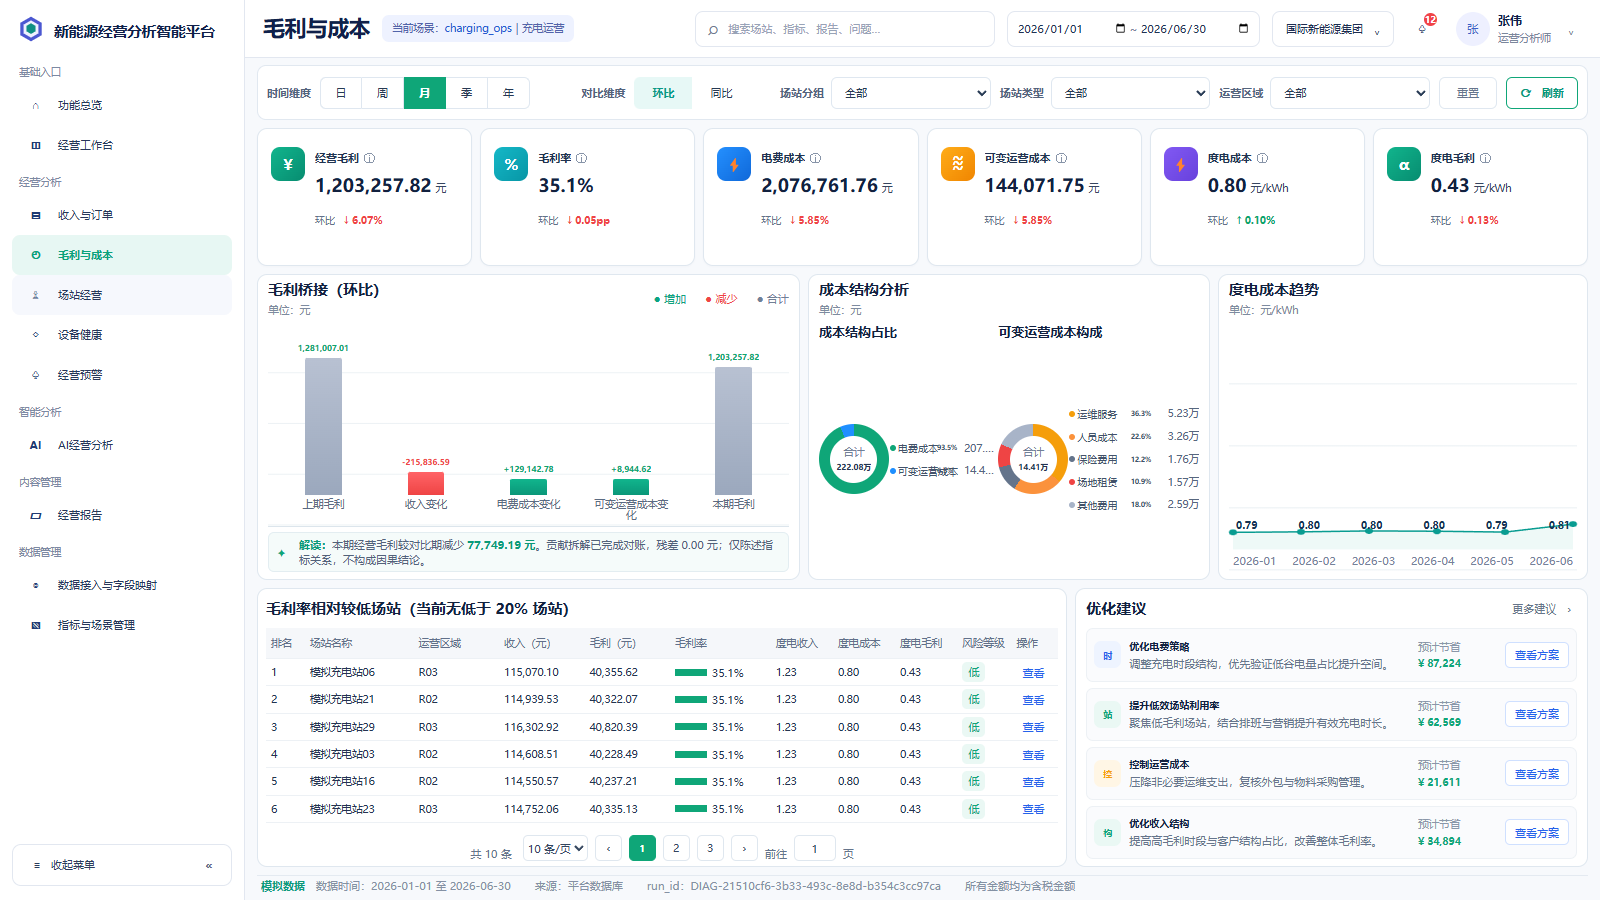
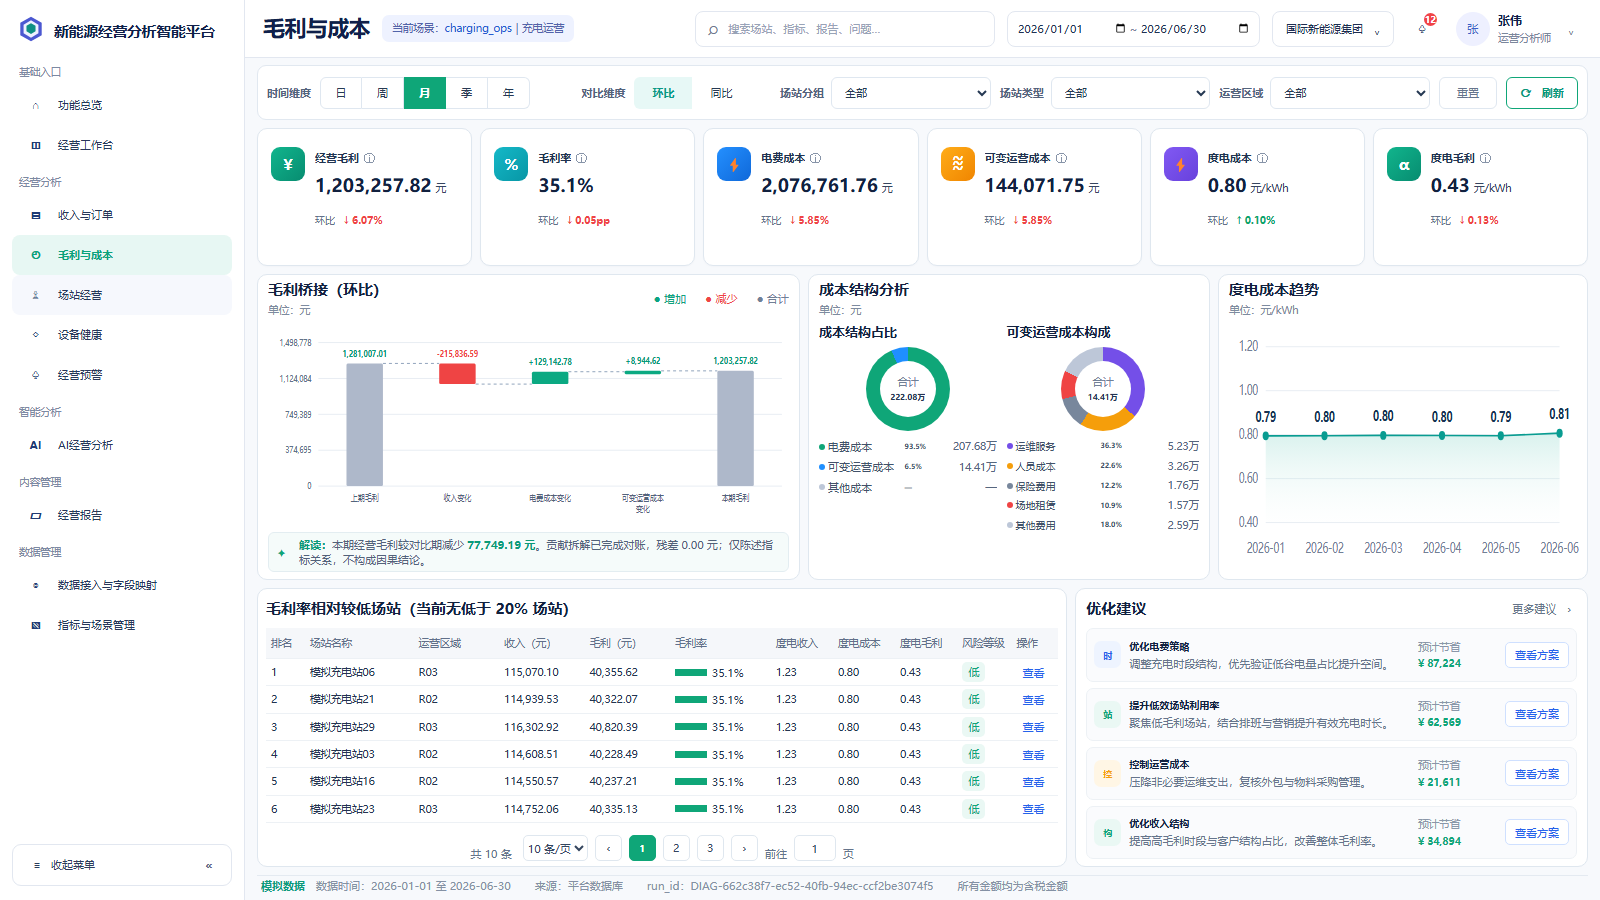
style(ui): align gross profit charts with Figma

diff --git a/frontend/src/overview.css b/frontend/src/overview.css
@@ -86,10 +86,10 @@
 .margin-middle-grid,.margin-bottom-grid{min-width:0;min-height:0;display:grid;gap:8px}.margin-middle-grid{grid-template-columns:minmax(0,1.35fr) minmax(330px,1fr) minmax(300px,.92fr)}.margin-bottom-grid{grid-template-columns:minmax(0,1.58fr) minmax(410px,1fr)}
 .margin-panel{min-width:0;min-height:0;overflow:hidden;border:1px solid #dfe7ef;border-radius:10px;background:#fff}.margin-panel>header{min-width:0;display:flex;align-items:center;justify-content:space-between}.margin-panel h2{margin:0;color:#12213f;font-size:14px}.margin-panel header small{display:block;margin-top:4px;color:#7d8ba0;font-size:9px;font-weight:500}
 .margin-bridge-panel{padding:0 10px 7px;display:grid;grid-template-rows:48px minmax(0,1fr) 45px}.margin-bridge-panel>header nav{display:flex;gap:19px;color:#718096;font-size:9px}.margin-bridge-panel nav .increase{color:#0ba480}.margin-bridge-panel nav .decrease{color:#ef4444}
-.margin-waterfall{min-height:0;padding:2px 4px 0;display:flex;align-items:flex-end;justify-content:space-around;border-bottom:1px solid #dce5ec;background:repeating-linear-gradient(to bottom,#fff 0,#fff 24%,#edf2f5 24.5%,#fff 25%);overflow:hidden}.margin-waterfall>div{width:16.2%;height:100%;display:flex;flex-direction:column;align-items:center;justify-content:flex-end}.margin-waterfall b{max-width:100%;margin-bottom:4px;overflow:hidden;font-size:8px;white-space:nowrap;text-overflow:ellipsis}.margin-waterfall>div>span{width:44%;min-height:8px;max-height:72%;border-radius:2px 2px 0 0}.margin-waterfall .positive{background:linear-gradient(#11b58d,#0a9779)}.margin-waterfall .negative{background:linear-gradient(#ff6467,#ef4444)}.margin-waterfall .total{background:linear-gradient(#b8c1d2,#9ba8bd)}.margin-waterfall small{height:31px;padding-top:4px;color:#5b6b82;font-size:8px;line-height:11px;text-align:center}.margin-bridge-panel>footer{margin-top:5px;padding:5px 8px;display:grid;grid-template-columns:22px 1fr;align-items:center;border:1px solid #e3edf1;border-radius:6px;background:#f5fbfa}.margin-bridge-panel>footer i{color:#0fa678;font-style:normal}.margin-bridge-panel>footer p{margin:0;overflow:hidden;color:#52627a;font-size:9px;line-height:15px}.margin-bridge-panel>footer b,.margin-bridge-panel>footer strong{color:#0b9a78}
+.margin-waterfall{min-height:0;overflow:hidden}.margin-waterfall svg{width:100%;height:100%;overflow:visible}.waterfall-grid{stroke:#e8edf3;stroke-width:1;vector-effect:non-scaling-stroke}.waterfall-axis-label{fill:#61718a;font-size:8px;text-anchor:end}.waterfall-connector{stroke:#91a4bc;stroke-width:1;stroke-dasharray:3 3;vector-effect:non-scaling-stroke}.waterfall-total{fill:#aeb8ca}.waterfall-positive{fill:#0ba982}.waterfall-negative{fill:#ef4444}.waterfall-value{font-size:8px;font-weight:700;text-anchor:middle}.waterfall-value.up{fill:#079a77}.waterfall-value.down{fill:#ef4444}.waterfall-category{fill:#53637b;font-size:8px;text-anchor:middle}.margin-bridge-panel>footer{margin-top:5px;padding:5px 8px;display:grid;grid-template-columns:22px 1fr;align-items:center;border:1px solid #e3edf1;border-radius:6px;background:#f5fbfa}.margin-bridge-panel>footer i{color:#0fa678;font-style:normal}.margin-bridge-panel>footer p{margin:0;overflow:hidden;color:#52627a;font-size:9px;line-height:15px}.margin-bridge-panel>footer b,.margin-bridge-panel>footer strong{color:#0b9a78}
 .margin-chart-loading{height:100%;display:grid;place-items:center;color:#75849a;font-size:10px}
-.margin-cost-panel{padding:0 10px 8px;display:grid;grid-template-rows:48px minmax(0,1fr)}.cost-structure{min-height:0;display:grid;grid-template-columns:.93fr 1.07fr;gap:5px}.cost-structure>section{min-width:0;display:grid;grid-template-rows:24px minmax(0,1fr)}.cost-structure h3{margin:0;font-size:10px}.cost-structure section>div{min-width:0;min-height:0;display:grid;grid-template-columns:70px minmax(0,1fr);align-items:center;gap:1px}.margin-donut{width:70px;height:70px;margin:auto;display:grid;place-items:center;border-radius:50%}.margin-donut>span{width:47px;height:47px;display:grid;place-content:center;border-radius:50%;background:#fff;text-align:center}.margin-donut small{color:#718096;font-size:7px}.margin-donut b{max-width:43px;margin-top:2px;overflow:hidden;color:#233451;font-size:8px;white-space:nowrap;text-overflow:ellipsis}.cost-structure ul{min-width:0;margin:0;padding:0;display:grid;gap:8px;list-style:none}.cost-structure li{min-width:0;display:grid;grid-template-columns:6px minmax(37px,1fr) 25px minmax(34px,.8fr);align-items:center;gap:2px;color:#42526a;font-size:6.5px;white-space:nowrap}.cost-structure li i{width:6px;height:6px;border-radius:50%}.cost-structure li b{font-size:6.5px}.cost-structure li em{overflow:hidden;color:#56677f;font-size:6.5px;font-style:normal;text-align:right;text-overflow:ellipsis}
-.margin-trend-panel{padding:0 10px 8px;display:grid;grid-template-rows:48px minmax(0,1fr)}.margin-trend{position:relative;min-height:0;padding:7px 4px 0;background:repeating-linear-gradient(to bottom,#fff 0,#fff 24%,#edf2f5 24.5%,#fff 25%)}.margin-trend svg{width:100%;height:calc(100% - 22px);overflow:visible}.margin-trend polygon{fill:#dff4f0;opacity:.55}.margin-trend polyline{fill:none;stroke:#099c91;stroke-width:1.5;vector-effect:non-scaling-stroke}.margin-trend circle{fill:#099c91;vector-effect:non-scaling-stroke}.margin-trend-labels{position:absolute;right:7px;bottom:39px;left:7px;display:flex;justify-content:space-between;color:#183454;font-size:9px}.margin-trend-axis{height:19px;display:flex;align-items:end;justify-content:space-between;color:#74829a;font-size:7px}
+.margin-cost-panel{padding:0 10px 8px;display:grid;grid-template-rows:48px minmax(0,1fr)}.cost-structure{min-height:0;display:grid;grid-template-columns:.96fr 1.04fr;gap:10px}.cost-structure>section{min-width:0;display:grid;grid-template-rows:24px minmax(0,1fr)}.cost-structure h3{margin:0;font-size:10px}.cost-structure section>div{min-width:0;min-height:0;display:grid;grid-template-rows:92px minmax(0,1fr);align-items:start}.margin-donut{width:84px;height:84px;margin:0 auto;display:grid;place-items:center;border-radius:50%}.margin-donut>span{width:56px;height:56px;display:grid;place-content:center;border-radius:50%;background:#fff;text-align:center}.margin-donut small{color:#718096;font-size:7px}.margin-donut b{max-width:52px;margin-top:2px;overflow:hidden;color:#233451;font-size:8px;white-space:nowrap;text-overflow:ellipsis}.cost-structure ul{min-width:0;margin:0;padding:0;display:grid;gap:5px;list-style:none}.cost-structure li{min-width:0;display:grid;grid-template-columns:6px minmax(45px,1fr) 30px minmax(39px,.8fr);align-items:center;gap:3px;color:#42526a;font-size:7px;white-space:nowrap}.cost-structure li i{width:6px;height:6px;border-radius:50%}.cost-structure li span{overflow:hidden;text-overflow:ellipsis}.cost-structure li b{font-size:7px}.cost-structure li em{overflow:hidden;color:#56677f;font-size:7px;font-style:normal;text-align:right;text-overflow:ellipsis}
+.margin-trend-panel{padding:0 10px 8px;display:grid;grid-template-rows:48px minmax(0,1fr)}.margin-trend{position:relative;min-height:0}.margin-trend svg{width:100%;height:100%;overflow:visible}.margin-trend polygon{fill:url(#marginTrendArea)}.margin-trend polyline{fill:none;stroke:#099c91;stroke-width:1.6;vector-effect:non-scaling-stroke}.margin-trend circle{fill:#099c91;vector-effect:non-scaling-stroke}.trend-grid{stroke:#e8edf3;stroke-width:1;vector-effect:non-scaling-stroke}.trend-axis-label{fill:#718096;font-size:8px;text-anchor:end}.trend-value{fill:#183454;font-size:9px;font-weight:700;text-anchor:middle}.trend-period{fill:#718096;font-size:7px;text-anchor:middle}
 .margin-station-panel{padding:0 8px 5px;display:grid;grid-template-rows:39px minmax(0,1fr) 38px}.margin-station-panel>div{min-height:0;overflow:hidden}.margin-station-panel table{width:100%;height:100%;margin:0;border-collapse:collapse;table-layout:fixed}.margin-station-panel th,.margin-station-panel td{height:auto;padding:4px 5px;overflow:hidden;border-bottom:1px solid #edf1f5;color:#233451;font-size:8px;text-align:left;white-space:nowrap;text-overflow:ellipsis}.margin-station-panel th{height:30px;background:#f5f7fa;color:#61708a;font-weight:500}.margin-station-panel th:nth-child(1){width:5%}.margin-station-panel th:nth-child(2){width:14%}.margin-station-panel th:nth-child(3){width:11%}.margin-station-panel th:nth-child(4),.margin-station-panel th:nth-child(5){width:11%}.margin-station-panel th:nth-child(6){width:13%}.margin-station-panel th:nth-child(7),.margin-station-panel th:nth-child(8),.margin-station-panel th:nth-child(9){width:8%}.margin-station-panel th:nth-child(10){width:7%}.margin-station-panel th:nth-child(11){width:6%}.margin-rate{display:flex;align-items:center;gap:5px}.margin-rate>i{width:30px;height:7px;flex:0 0 auto}.margin-station-panel td>em{padding:3px 6px;border-radius:5px;font-size:8px;font-style:normal}.margin-station-panel td>.risk-high{background:#fff0f1;color:#ef4444!important}.margin-station-panel td>.risk-medium{background:#fff6e5;color:#f59e0b}.margin-station-panel td>.risk-low{background:#eaf8f4;color:#0fa678!important}.margin-station-panel td>button{border:0;background:transparent;color:#2563eb;font-size:8px}.margin-station-panel>footer{display:flex;align-items:end;justify-content:center;gap:7px;color:#65748b;font-size:9px}.margin-station-panel>footer select{height:26px;margin-left:4px;border:1px solid #dfe7ef;border-radius:5px;background:#fff;color:#34455e;font-size:9px}.margin-station-panel>footer button,.margin-station-panel>footer b,.margin-station-panel>footer input{width:27px;height:26px;padding:0;display:grid;place-items:center;border:1px solid #dfe7ef;border-radius:5px;background:#fff;color:#34455e;font-size:9px;text-align:center}.margin-station-panel>footer b{border-color:#0fa678;background:#0fa678;color:#fff}.margin-station-panel>footer input{width:42px}
 .margin-suggestion-panel{padding:0 10px 7px;display:grid;grid-template-rows:39px minmax(0,1fr)}.margin-suggestion-panel>header>button{border:0;background:transparent;color:#66758a;font-size:9px}.margin-suggestion-panel>div{min-height:0;display:grid;grid-template-rows:repeat(4,minmax(0,1fr));gap:6px}.margin-suggestion-panel section{min-height:0;padding:5px 7px;display:grid;grid-template-columns:28px minmax(0,1fr) 80px 64px;align-items:center;gap:7px;border:1px solid #edf1f5;border-radius:7px;background:#fafbfd}.margin-suggestion-panel section>i{width:27px;height:27px;display:grid;place-items:center;border-radius:7px;font-size:9px;font-style:normal;font-weight:700}.margin-suggestion-panel i.blue{background:#eef4ff!important;color:#2563eb!important}.margin-suggestion-panel i.green{background:#eaf8f4!important;color:#0fa678!important}.margin-suggestion-panel i.orange{background:#fff6e5!important;color:#f59e0b!important}.margin-suggestion-panel section>div{min-width:0}.margin-suggestion-panel section>div>b{display:block;font-size:10px}.margin-suggestion-panel p{margin:3px 0 0;overflow:hidden;color:#66758c;font-size:8px;white-space:nowrap;text-overflow:ellipsis}.margin-suggestion-panel section>span{display:grid;gap:2px}.margin-suggestion-panel section>span small{color:#8a97a9;font-size:7px}.margin-suggestion-panel section>span strong{color:#0fa678;font-size:10px}.margin-suggestion-panel section>button{height:26px;border:1px solid #cfe0ff;border-radius:5px;background:#fff;color:#2563eb;font-size:8px}
 .margin-truth{padding:0 4px;display:flex;align-items:center;gap:24px;overflow:hidden;border-top:1px solid #e4eaf1;color:#8491a4;font-size:8px;white-space:nowrap}.margin-truth b{color:#0b9b7c}.margin-error{position:absolute;right:8px;bottom:23px;padding:5px 10px;border-radius:5px;background:#fff0f0;color:#a52a2a;font-size:9px}

diff --git a/frontend/src/overview.tsx b/frontend/src/overview.tsx
@@ -361,36 +361,79 @@ function MarginWaterfall({ diagnostic }: { diagnostic: ProfitDiagnostic | null }
   if (!diagnostic) return <div className="margin-chart-loading">正在计算毛利变化贡献…</div>
   const startValue = diagnostic.previous.gross_profit ?? 0
   const endValue = diagnostic.current.gross_profit ?? 0
+  let cumulative = startValue
   const values = [
-    { label: '上期毛利', value: startValue, total: true },
-    ...diagnostic.bridge.map(item => ({ label: marginDriverNames[item.driver] || item.driver, value: item.contribution, total: false })),
-    { label: '本期毛利', value: endValue, total: true },
+    { label: '上期毛利', value: startValue, start: 0, end: startValue, total: true },
+    ...diagnostic.bridge.map(item => {
+      const start = cumulative
+      cumulative += item.contribution
+      return { label: marginDriverNames[item.driver] || item.driver, value: item.contribution, start, end: cumulative, total: false }
+    }),
+    { label: '本期毛利', value: endValue, start: 0, end: endValue, total: true },
   ]
-  const max = Math.max(...values.map(item => Math.abs(item.value)), 1)
+  const allLevels = values.flatMap(item => [item.start, item.end, 0])
+  const rawMin = Math.min(...allLevels)
+  const rawMax = Math.max(...allLevels)
+  const spread = Math.max(rawMax - rawMin, 1)
+  const axisMin = rawMin < 0 ? rawMin - spread * .08 : 0
+  const axisMax = rawMax + spread * .17
+  const plot = { left: 58, right: 592, top: 18, bottom: 150 }
+  const plotHeight = plot.bottom - plot.top
+  const step = (plot.right - plot.left) / values.length
+  const barWidth = Math.min(42, step * .43)
+  const y = (value: number) => plot.top + (axisMax - value) / (axisMax - axisMin) * plotHeight
+  const ticks = Array.from({ length: 5 }, (_, index) => axisMin + (axisMax - axisMin) * index / 4)
+  const shortAxis = (value: number) => Math.abs(value) >= 10000 ? Math.round(value).toLocaleString('zh-CN') : value.toFixed(0)
+  const labelParts = (label: string) => label.length > 7 ? [label.slice(0, 6), label.slice(6)] : [label]
   return <div className="margin-waterfall" role="img" aria-label="毛利桥接环比图">
-    {values.map((item, index) => {
-      const height = Math.max(Math.abs(item.value) / max * 68, 8)
-      const positive = item.total || item.value >= 0
-      return <div key={`${item.label}-${index}`}><b className={positive ? 'up' : 'down'}>{item.value >= 0 && !item.total ? '+' : ''}{money(item.value)}</b><span className={`${item.total ? 'total ' : ''}${positive ? 'positive' : 'negative'}`} style={{ height: `${height}%` }} /><small>{item.label}</small></div>
-    })}
+    <svg viewBox="0 0 600 188" preserveAspectRatio="none">
+      {ticks.map((tick, index) => {
+        const tickY = y(tick)
+        return <g key={`tick-${index}`}><line className="waterfall-grid" x1={plot.left} x2={plot.right} y1={tickY} y2={tickY} /><text className="waterfall-axis-label" x={plot.left - 8} y={tickY + 3}>{shortAxis(tick)}</text></g>
+      })}
+      {values.map((item, index) => {
+        const x = plot.left + step * index + (step - barWidth) / 2
+        const rectTop = Math.min(y(item.start), y(item.end))
+        const rectBottom = Math.max(y(item.start), y(item.end))
+        const rectHeight = Math.max(rectBottom - rectTop, 3)
+        const positive = item.value >= 0
+        const connectorLevel = item.total && index === 0 ? item.end : item.end
+        const connectorY = y(connectorLevel)
+        const nextX = plot.left + step * (index + 1) + (step - barWidth) / 2
+        const parts = labelParts(item.label)
+        return <g key={`${item.label}-${index}`}>
+          {index < values.length - 1 && <line className="waterfall-connector" x1={x + barWidth} x2={nextX} y1={connectorY} y2={connectorY} />}
+          <rect className={item.total ? 'waterfall-total' : positive ? 'waterfall-positive' : 'waterfall-negative'} x={x} y={rectTop} width={barWidth} height={rectHeight} rx="1.5" />
+          <text className={item.total || positive ? 'waterfall-value up' : 'waterfall-value down'} x={x + barWidth / 2} y={Math.max(rectTop - 6, 10)}>
+            {positive && !item.total ? '+' : ''}{money(item.value)}
+          </text>
+          <text className="waterfall-category" x={x + barWidth / 2} y="164">{parts.map((part, partIndex) => <tspan key={part} x={x + barWidth / 2} dy={partIndex ? 10 : 0}>{part}</tspan>)}</text>
+        </g>
+      })}
+    </svg>
   </div>
 }
 
 function MarginTrend({ points }: { points: TrendPoint[] }) {
   if (!points.length) return <div className="margin-chart-loading">正在加载度电成本趋势…</div>
   const values = points.map(item => item.value ?? 0)
-  const max = Math.max(...values, 1)
-  const min = Math.min(...values)
+  const stepSize = .2
+  const min = Math.floor((Math.min(...values) - .3) / stepSize) * stepSize
+  const max = Math.ceil((Math.max(...values) + .3) / stepSize) * stepSize
   const spread = max - min || 1
-  const coords = values.map((value, index) => `${index / Math.max(values.length - 1, 1) * 100},${83 - (value - min) / spread * 57}`).join(' ')
+  const plot = { left: 38, right: 342, top: 17, bottom: 143 }
+  const x = (index: number) => plot.left + index / Math.max(values.length - 1, 1) * (plot.right - plot.left)
+  const y = (value: number) => plot.top + (max - value) / spread * (plot.bottom - plot.top)
+  const coords = values.map((value, index) => `${x(index)},${y(value)}`).join(' ')
+  const ticks = Array.from({ length: 5 }, (_, index) => min + spread * index / 4)
   return <div className="margin-trend" role="img" aria-label="度电成本月度趋势">
-    <svg viewBox="0 0 100 90" preserveAspectRatio="none"><polygon points={`0,90 ${coords} 100,90`} /><polyline points={coords} />{values.map((value, index) => {
-      const x = index / Math.max(values.length - 1, 1) * 100
-      const y = 83 - (value - min) / spread * 57
-      return <circle key={`${points[index].period}-${index}`} cx={x} cy={y} r="1.2" />
-    })}</svg>
-    <div className="margin-trend-labels">{values.map((value, index) => <b key={`${points[index].period}-value`}>{value.toFixed(2)}</b>)}</div>
-    <div className="margin-trend-axis">{points.map(point => <span key={point.period}>{point.period.slice(0, 7)}</span>)}</div>
+    <svg viewBox="0 0 360 178" preserveAspectRatio="none">
+      <defs><linearGradient id="marginTrendArea" x1="0" y1="0" x2="0" y2="1"><stop offset="0%" stopColor="#78cfc1" stopOpacity=".28" /><stop offset="100%" stopColor="#e8f7f4" stopOpacity=".04" /></linearGradient></defs>
+      {ticks.map((tick, index) => <g key={`trend-tick-${index}`}><line className="trend-grid" x1={plot.left} x2={plot.right} y1={y(tick)} y2={y(tick)} /><text className="trend-axis-label" x={plot.left - 8} y={y(tick) + 3}>{tick.toFixed(2)}</text></g>)}
+      <polygon points={`${plot.left},${plot.bottom} ${coords} ${plot.right},${plot.bottom}`} />
+      <polyline points={coords} />
+      {values.map((value, index) => <g key={`${points[index].period}-${index}`}><circle cx={x(index)} cy={y(value)} r="3.2" /><text className="trend-value" x={x(index)} y={y(value) - 10}>{value.toFixed(2)}</text><text className="trend-period" x={x(index)} y="165">{points[index].period.slice(0, 7)}</text></g>)}
+    </svg>
   </div>
 }
 
@@ -402,18 +445,23 @@ function CostStructure({ metrics }: { metrics: Record<string, number | null> }) 
   const energyShare = energy / total
   const operationShare = variable / total
   const operationItems = [
-    { label: '运维服务', share: .363, value: variable * .363, color: '#f59e0b' },
-    { label: '人员成本', share: .226, value: variable * .226, color: '#fb923c' },
-    { label: '保险费用', share: .122, value: variable * .122, color: '#64748b' },
+    { label: '运维服务', share: .363, value: variable * .363, color: '#744fe8' },
+    { label: '人员成本', share: .226, value: variable * .226, color: '#f59e0b' },
+    { label: '保险费用', share: .122, value: variable * .122, color: '#78879c' },
     { label: '场地租赁', share: .109, value: variable * .109, color: '#ef4444' },
-    { label: '其他费用', share: .18, value: variable * .18, color: '#a8b4c8' },
+    { label: '其他费用', share: .18, value: variable * .18, color: '#bdc7d8' },
   ]
   const operationGradient = `conic-gradient(${operationItems.map((item, index) => {
     const start = operationItems.slice(0, index).reduce((sum, row) => sum + row.share, 0) * 100
     return `${item.color} ${start}% ${start + item.share * 100}%`
   }).join(',')})`
+  const totalItems = [
+    { label: '电费成本', share: energyShare, value: energy, color: '#0fa678' },
+    { label: '可变运营成本', share: operationShare, value: variable, color: '#1f8fff' },
+    { label: '其他成本', share: 0, value: 0, color: '#bdc7d8' },
+  ]
   return <div className="cost-structure">
-    <section><h3>成本结构占比</h3><div><div className="margin-donut" style={{ background: `conic-gradient(#0fa678 0 ${energyShare * 100}%,#1f8fff ${energyShare * 100}% 100%)` }}><span><small>合计</small><b>{compactMoney(total)}</b></span></div><ul><li><i style={{ background: '#0fa678' }} />电费成本 <b>{(energyShare * 100).toFixed(1)}%</b><em>{compactMoney(energy)}</em></li><li><i style={{ background: '#1f8fff' }} />可变运营成本 <b>{(operationShare * 100).toFixed(1)}%</b><em>{compactMoney(variable)}</em></li></ul></div></section>
+    <section><h3>成本结构占比</h3><div><div className="margin-donut" style={{ background: `conic-gradient(#0fa678 0 ${energyShare * 100}%,#1f8fff ${energyShare * 100}% 100%)` }}><span><small>合计</small><b>{compactMoney(total)}</b></span></div><ul>{totalItems.map(item => <li key={item.label}><i style={{ background: item.color }} /><span>{item.label}</span><b>{item.share ? `${(item.share * 100).toFixed(1)}%` : '—'}</b><em>{item.value ? compactMoney(item.value) : '—'}</em></li>)}</ul></div></section>
     <section><h3>可变运营成本构成</h3><div><div className="margin-donut" style={{ background: operationGradient }}><span><small>合计</small><b>{compactMoney(variable)}</b></span></div><ul>{operationItems.map(item => <li key={item.label}><i style={{ background: item.color }} />{item.label}<b>{(item.share * 100).toFixed(1)}%</b><em>{compactMoney(item.value)}</em></li>)}</ul></div></section>
   </div>
 }

diff --git a/docs/v2/V2_gross_profit_cost_UI_acceptance.md b/docs/v2/V2_gross_profit_cost_UI_acceptance.md
@@ -7,7 +7,7 @@
 ## 范围
 
 - 毛利与成本筛选栏、六项核心指标卡；
-- 毛利桥接、成本结构、度电成本趋势；
+- 累计悬浮柱与虚线连接的毛利桥接、双环成本结构、带纵轴刻度的度电成本趋势；
 - 低毛利率场站表与优化建议；
 - 模拟数据、数据时间、来源与 `run_id` 证据链；
 - 专属一屏布局与自动化验收。
@@ -39,11 +39,12 @@
 ## 验收标准
 
 1. 六项核心指标、三个分析模块、低毛利场站表和四条优化建议可见；
-2. 页面显示“模拟数据”、数据时间、来源和诊断 `run_id`；
-3. 1600×900、100% 缩放下文档无纵向滚动；
-4. `.margin-panel` 不发生横向或纵向内部溢出；
-5. 页面无浏览器控制台错误；
-6. 前端构建、单元测试和专属 Playwright 用例通过。
+2. 毛利桥接柱按接口返回贡献项逐项累计，起止毛利完成对账；成本结构完整显示占比、金额和图例；
+3. 页面显示“模拟数据”、数据时间、来源和诊断 `run_id`；
+4. 1600×900、100% 缩放下文档无纵向滚动；
+5. `.margin-panel` 不发生横向或纵向内部溢出；
+6. 页面无浏览器控制台错误；
+7. 前端构建、单元测试和专属 Playwright 用例通过。
 
 ## 回滚方式
 
